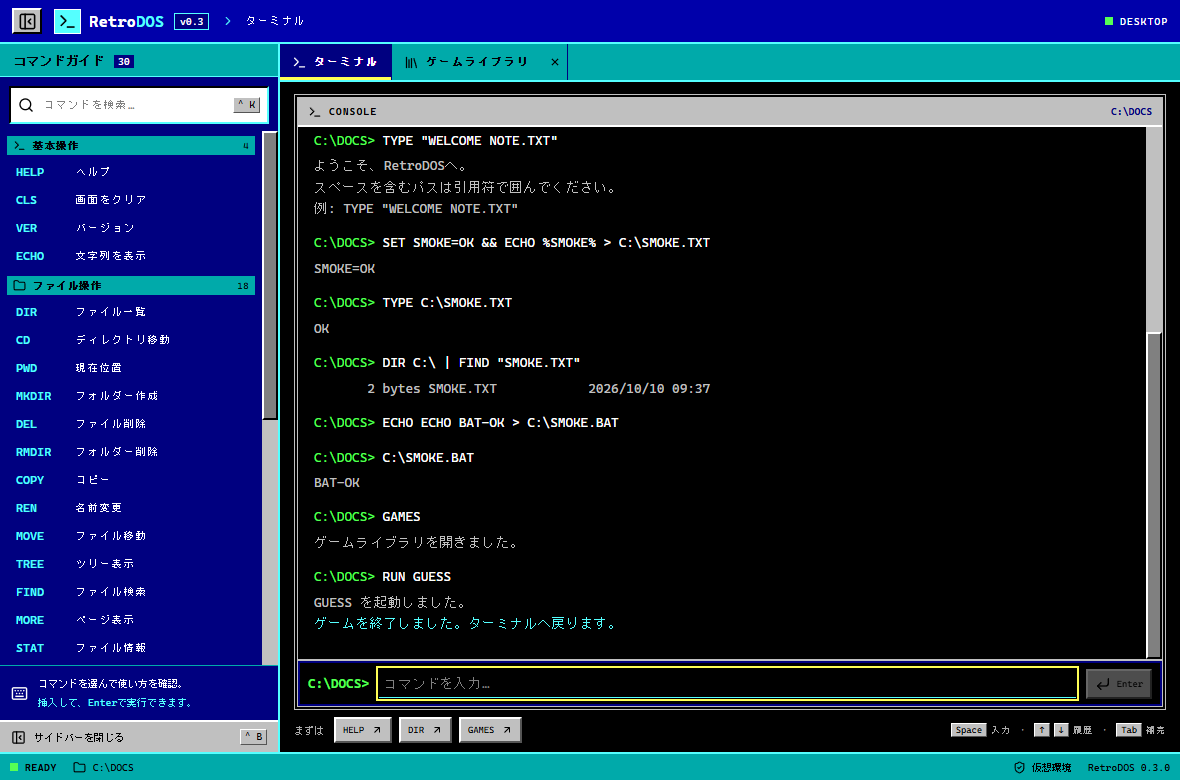
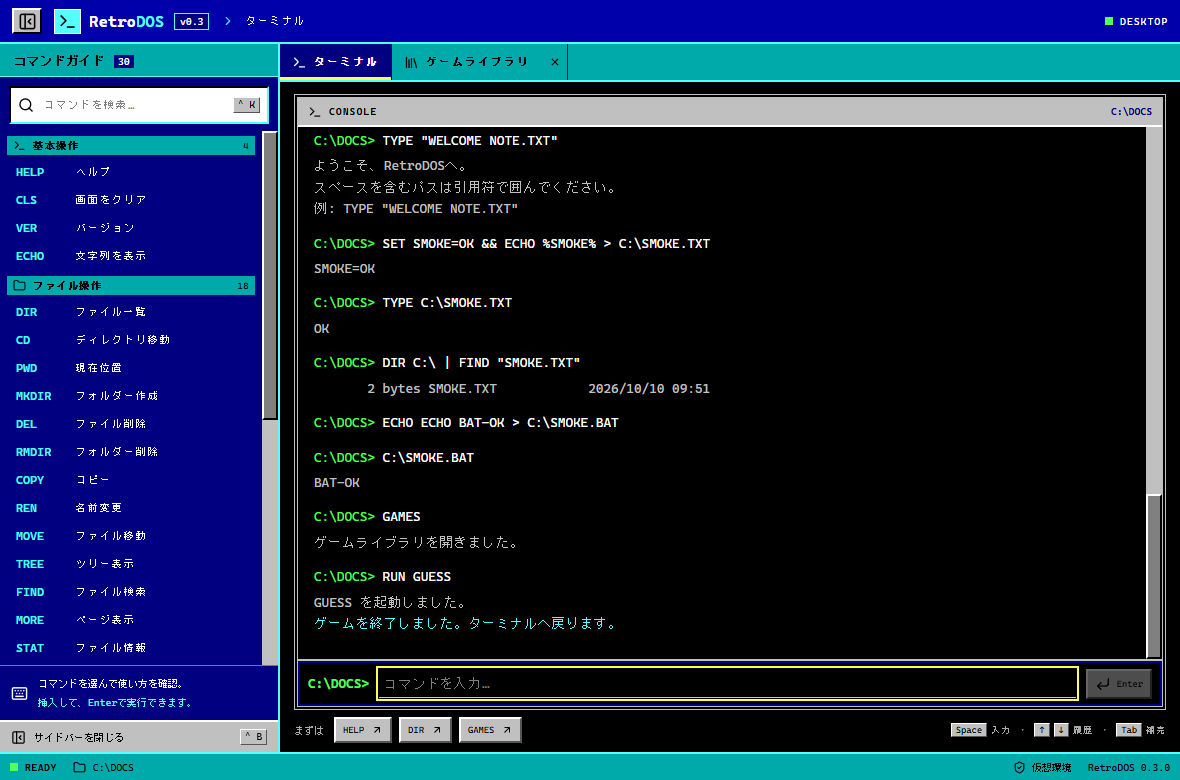
fix:遅延処置の対応

Changed region(s): [[0.9458, 0.4308, 1.0, 0.6462], [0.2746, 0.3077, 0.5797, 0.3385], [0.5797, 0.4923, 0.6102, 0.5231]]

diff --git a/src/components/terminal/Terminal.tsx b/src/components/terminal/Terminal.tsx
@@ -1,5 +1,5 @@
 import { ArrowDown, ArrowUpRight, CornerDownLeft, Terminal as TerminalIcon } from 'lucide-react';
-import { forwardRef, useEffect, useImperativeHandle, useLayoutEffect, useRef, useState } from 'react';
+import { forwardRef, useCallback, useEffect, useImperativeHandle, useLayoutEffect, useRef, useState } from 'react';
 import type { Ref } from 'react';
 import type { TerminalEntry } from '../../types/workspace';
 import { useCommandInput } from '../../hooks/useCommandInput';
@@ -26,19 +26,24 @@ export function Terminal({ active, entries, directory, busy, history, execute, a
   const followOutput = useRef(true);
   const [unread, setUnread] = useState(false);
 
-  useLayoutEffect(() => {
+  const scrollToLatest = useCallback(() => {
     const log = logRef.current;
     if (!log) return;
-    if (followOutput.current) { log.scrollTop = log.scrollHeight; setUnread(false); }
-    else setUnread(true);
-  }, [entries]);
-
-  const jumpToLatest = () => {
-    const log = logRef.current;
-    if (log) log.scrollTop = log.scrollHeight;
+    log.scrollTop = log.scrollHeight;
     followOutput.current = true;
     setUnread(false);
-  };
+  }, []);
+
+  useLayoutEffect(() => {
+    const log = logRef.current;
+    if (!active || !log) return;
+    if (!followOutput.current) { setUnread(true); return; }
+    scrollToLatest();
+    const frame = requestAnimationFrame(scrollToLatest);
+    return () => cancelAnimationFrame(frame);
+  }, [active, entries, scrollToLatest]);
+
+  const jumpToLatest = scrollToLatest;
 
   return (
     <section className="terminal-view" aria-label="ターミナル画面" hidden={!active}>

diff --git a/tests/e2e/workspace.spec.ts b/tests/e2e/workspace.spec.ts
@@ -385,6 +385,7 @@ test('new output keeps older logs in place until explicitly following', async ({
   // The parser treats newlines as whitespace. A long help log also exercises scrolling.
   for (let index = 0; index < 5; index++) { await run(page, 'HELP'); }
   await expect(page.locator('.terminal-entry.input')).toHaveCount(6);
+  await expect.poll(() => log.evaluate(element => element.scrollHeight - element.scrollTop - element.clientHeight)).toBeLessThan(2);
   await log.evaluate(element => { element.scrollTop = 0; element.dispatchEvent(new Event('scroll')); });
   await run(page, 'ECHO latest-output');
   await expect(page.getByRole('button', { name: '新しい出力' })).toBeVisible();
